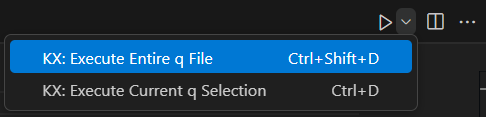
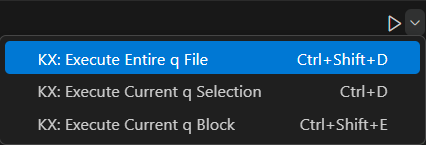
Update Run description to add code block menu item

diff --git a/README.md b/README.md
@@ -264,7 +264,7 @@ For any file with a **.q** or **.py** extension there are additional options ava
 
 - **Execute current selection** - Takes the current selection (or current line if nothing is selected) and executes it against the active connection. Results are displayed in the [Output window and/or the KDB Results window](#view-results).
 
-- **Execute current block** - Selects the q expression under cursor and executes it against the active connection. Results are displayed in the [Output window and/or the KDB Results window](#view-results).
+- **Execute current block** - Selects the q expression under the cursor and executes it against the active connection. Results are displayed in the [Output window and/or the KDB Results window](#view-results).
 
 - **Run q file in new q instance** - If q is installed and executable from the terminal you can execute an entire q script on a newly launched q instance. Executing a file on a new instance is done in the terminal, and allows interrogation of the active q process from the terminal window.
 
@@ -361,15 +361,13 @@ To create a Workbook and run code against a specific connection:
       1. Click **Run** from above the first line of code in the workbook file.
          ![workbook links](https://github.com/KxSystems/kx-vscode/blob/main/img/workbookrunlink.png?raw=true)
 
-      1. Select **Run** from the upper right of the editor. Using the dropdown next to the button you can choose to **KX: Execute Entire File** or **KX Execute Current Selection**.
+      1. Select **Run** from the upper right of the editor. Using the dropdown next to the button you can choose any of the [**KX:** menu items](#kdb-process-executing-q-and-python-code) to run some, or all of the code in the workbook.
          ![play dropdown](https://github.com/KxSystems/kx-vscode/blob/main/img/wortkbookplaydropdown.png?raw=true)
 
       1. Click **Run** on the right-hand side of the status bar.
          ![status bar run ](https://github.com/KxSystems/kx-vscode/blob/main/img/workbookstatusbarrun.png?raw=true)
 
       1. Right-click and choose **KX: Execute Entire File** from the menu.
-
-   1. If you wish to only run the current selection (or current line if nothing is selected), right-click and choose **KX: Execute Current Selection** from the menu.
 
 1. If you have not yet chosen a connection to associate with the workbook you are asked to choose a connection before the code is executed.
    ![choose connection](https://github.com/KxSystems/kx-vscode/blob/main/img/workbookconnectionlink.png?raw=true)
